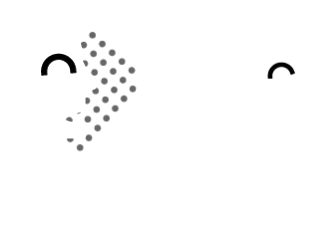
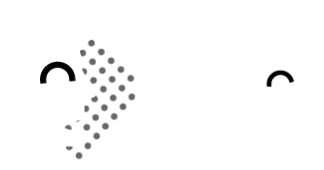
Tweaks and touch-ups.

diff --git a/css/main.css b/css/main.css
@@ -37,7 +37,7 @@ b, strong { font-family: "gotham_boldregular", sans-serif; }
 .logo img { width: 320px; padding: 8px 16px; }
 
 .splash { text-align: center; }
-.splash img { padding: 8px 0; }
+.splash img { width: 80%; max-width: 320px; padding: 8px 0; }
 
 .breadcrumb {
     font-family: "gotham_bookregular", sans-serif;
@@ -67,10 +67,10 @@ b, strong { font-family: "gotham_boldregular", sans-serif; }
 .form input[type="submit"] {
     background-color: #EC2C23;
     font-family: inherit;
-    font-size: 24px;
-    line-height: 36px;
+    font-size: 20px;
+    line-height: 32px;
     text-transform: uppercase;
-    padding: 24px 8px;
+    padding: 16px 8px;
     font-family: "gotham_boldregular", sans-serif;
     border: 0;
     color: #ffffff;
@@ -88,26 +88,26 @@ b, strong { font-family: "gotham_boldregular", sans-serif; }
 
 h1 {
     font-family: "gotham_blackregular", sans-serif;
-    font-size: 32px;
+    font-size: 28px;
     text-transform: uppercase;
     color: #FFFFFF;
     margin: 16px;
 }
 h2 {
     font-family: "gotham_bookregular", sans-serif;
-    font-size: 16px;
+    font-size: 14px;
     color: #FFFFFF;
     margin: 16px;
-    line-height: 22px;
+    line-height: 20px;
 }
 
 .winner { margin: 16px; }
-.winner img { width: 325px; height: 200px; padding: 8px 0; }
+.winner img { width: 100%; max-width: 325px; height: auto; padding: 8px 0; }
 .winner span { position: relative; display: block; width: auto; background-color: #EC2C23; white-space: nowrap; padding: 4px 8px; margin-top: -70px; }
 
-html { height: 100%; }
+html, body { height: 100%; }
 .swiper-container { width: 100%; }
-.swiper-slide { width: 100%; }
+.swiper-slide { width: 100%; min-height: 100%; }
 
 .pagination { position: absolute; z-index: 20; left: 10px; bottom: 10px; }
 .swiper-pagination-switch { display: inline-block; width: 8px; height: 8px; border-radius: 16px; background-color: #222222; margin-right: 5px; opacity: 0.8; border: 1px solid #ffffff; cursor: pointer; }

diff --git a/index.html b/index.html
@@ -1,10 +1,8 @@
 <!DOCTYPE html>
-<html class="no-js">
+<html>
 <head>
 <meta charset="utf-8">
-<meta http-equiv="X-UA-Compatible" content="IE=edge">
-<title></title>
-<meta name="description" content="">
+<title>Student Entrepreneur Awards</title>
 <meta name="viewport" content="width=device-width, initial-scale=1">
 
 <link rel="stylesheet" href="css/main.css">
@@ -25,8 +23,8 @@
             <h4 class="breadcrumb">About the awards</h4>
             <h1>Got an idea with business potential?</h1>
             <div class="splash"><img src="images/splash-1.png" alt=""></div>
-            <h2>We want to help you kickstart it! The Student Entrepreneur Awards are looking for ideas to blow our minds!</h2>
-            <h2><b>First prize is &euro;10,000</b></h2>
+            <h2>We want to help you kickstart it! The Student Entrepreneur Awards are looking for ideas to blow our minds! <b>First prize is &euro;10,000</b></h2>
+            <br>
         </div>
 
         <div class="swiper-slide blue">
